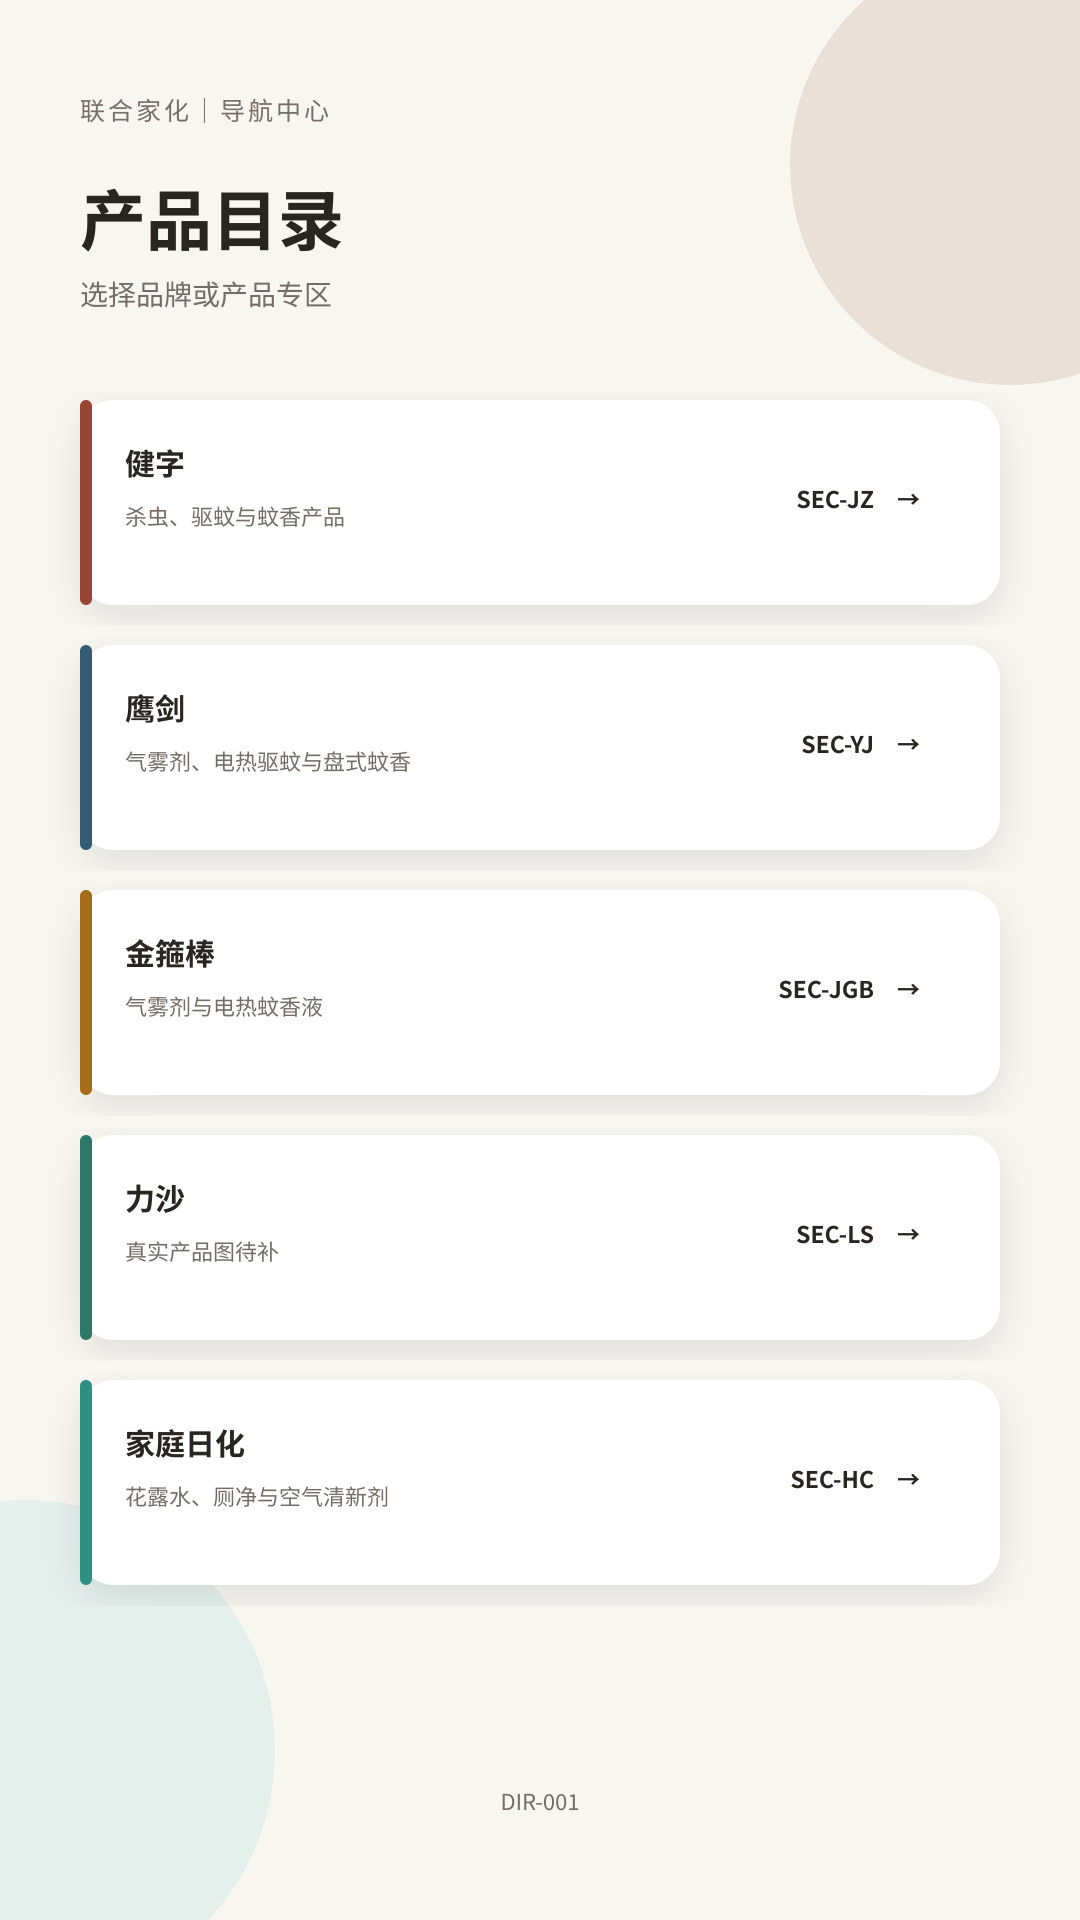
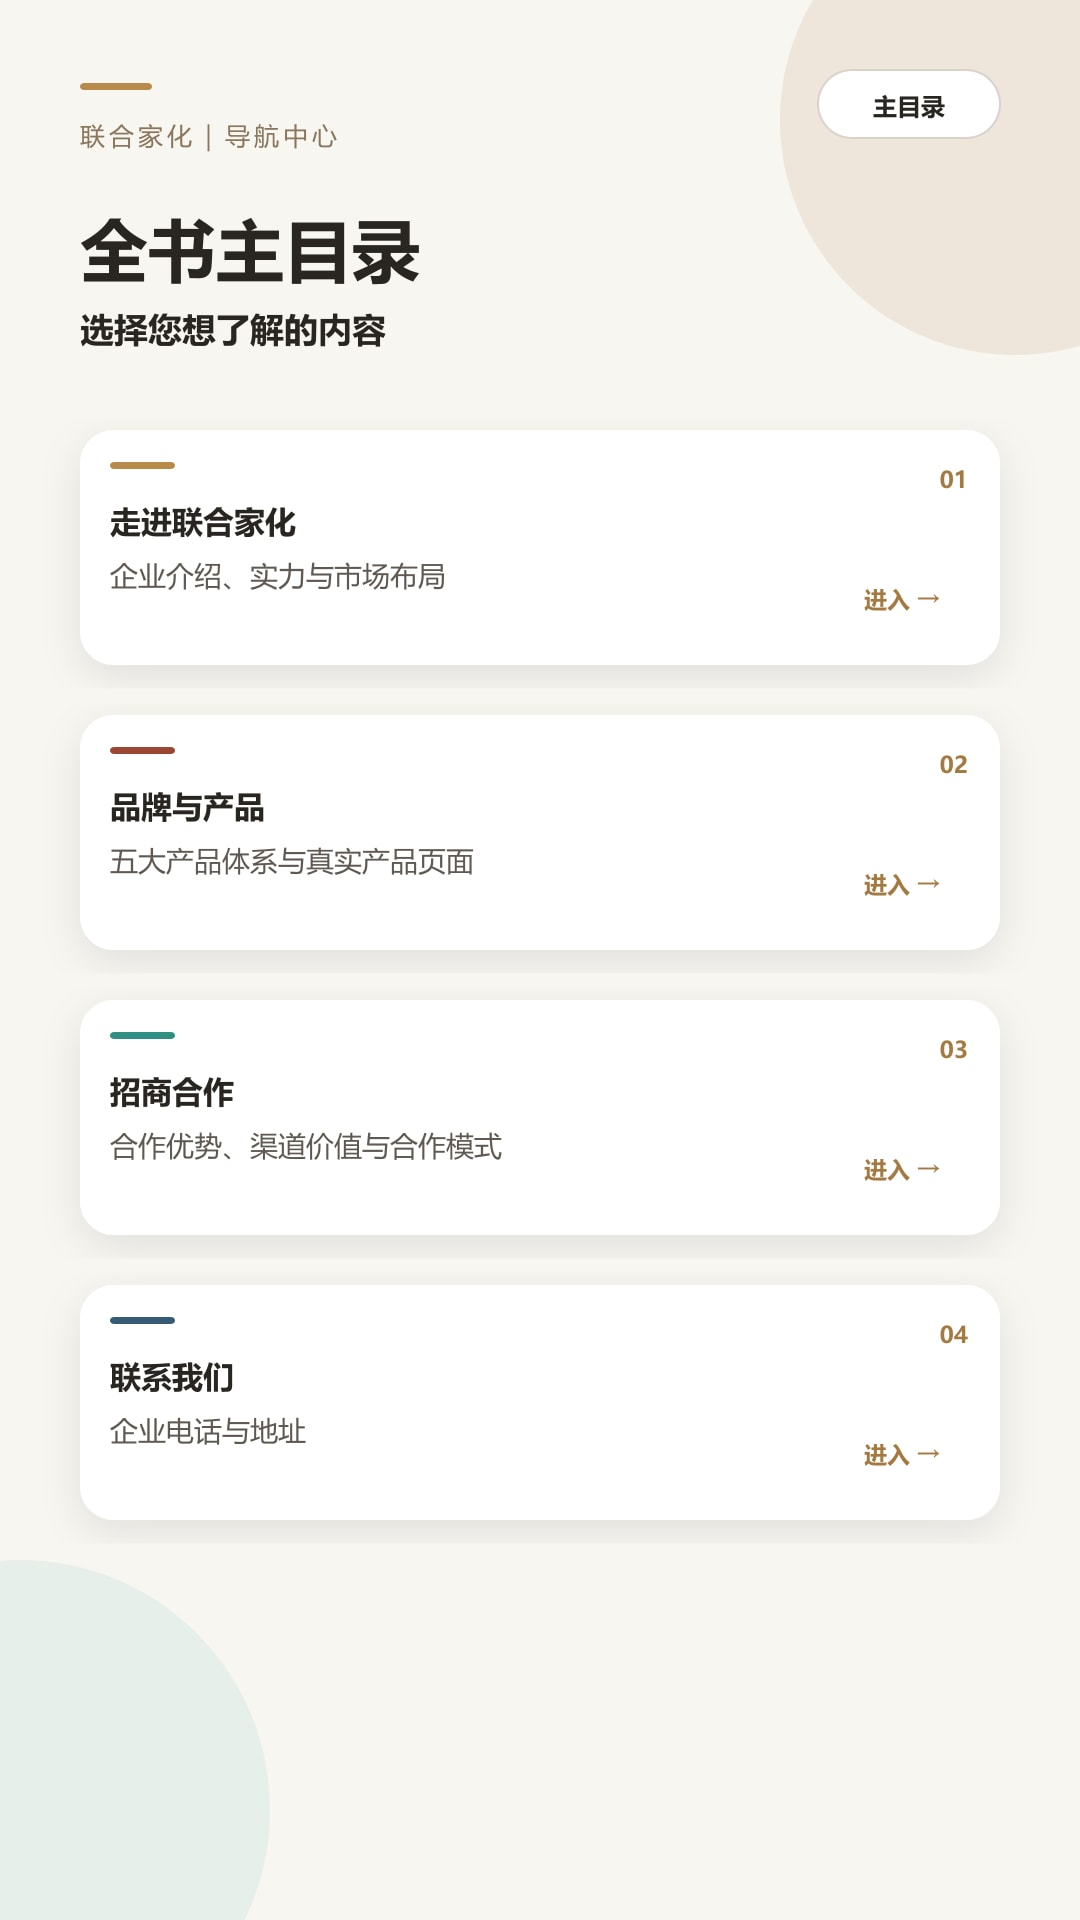
Complete enterprise and cooperation chapters

diff --git a/style.css b/style.css
@@ -1,1 +1,1 @@
-*{box-sizing:border-box}html,body{margin:0;height:100%;background:#e9e5df;color:#26231f;font-family:-apple-system,BlinkMacSystemFont,"Segoe UI","PingFang SC","Microsoft YaHei",sans-serif}button,input{font:inherit}.topbar{height:64px;padding:env(safe-area-inset-top) 12px 0;display:flex;align-items:center;gap:12px;background:#faf7f1;border-bottom:1px solid #ddd6cb;position:fixed;z-index:10;top:0;left:0;right:0}.heading{min-width:0;flex:1;text-align:center;display:flex;flex-direction:column}.heading strong{font-size:15px;white-space:nowrap;overflow:hidden;text-overflow:ellipsis}.heading span{font-size:11px;color:#777}.icon-btn,.bottomnav button,.drawer button{border:0;background:#fff;border-radius:10px;padding:10px 12px;color:#3b3732}.viewer{position:fixed;inset:64px 0 calc(62px + env(safe-area-inset-bottom));display:grid;place-items:center;overflow:hidden}.page{width:min(100%,calc((100dvh - 126px - env(safe-area-inset-bottom)) * .5625));aspect-ratio:9/16;margin:0;display:grid;place-items:center;position:relative}.page img{display:block;width:100%;height:100%;box-shadow:0 8px 30px #40382d26;opacity:0;transition:opacity .15s}.page img.ready{opacity:1}.hotspots{position:absolute;inset:0;z-index:3}.hotspot{position:absolute;border:0;background:transparent;border-radius:10px;cursor:pointer}.hotspot:focus-visible{outline:3px solid #1877d2;outline-offset:-3px}#loading{position:absolute;color:#777}.tap-zone{position:absolute;z-index:2;top:0;bottom:0;width:10%;border:0;background:transparent}.tap-zone.left{left:0}.tap-zone.right{right:0}.bottomnav{height:calc(62px + env(safe-area-inset-bottom));padding:8px 20px env(safe-area-inset-bottom);position:fixed;bottom:0;left:0;right:0;display:flex;align-items:center;justify-content:space-between;background:#faf7f1;border-top:1px solid #ddd6cb;z-index:10}.bottomnav button{min-width:88px}.bottomnav button:disabled{opacity:.35}.bottomnav span{font-size:13px;color:#666}.drawer{position:fixed;z-index:30;left:0;top:0;bottom:0;width:min(88vw,390px);background:#f7f3ec;transform:translateX(-102%);transition:transform .2s;box-shadow:10px 0 40px #0003;overflow:auto;padding-bottom:30px}.drawer[aria-hidden=false]{transform:translateX(0)}.drawer-head{position:sticky;top:0;background:#f7f3ecef;backdrop-filter:blur(8px);display:flex;align-items:center;justify-content:space-between;padding:18px;border-bottom:1px solid #ddd6cb}.search{display:block;padding:14px 18px 5px}.search span{font-size:12px;color:#777;display:block;margin-bottom:6px}.search input{width:100%;border:1px solid #d5cec3;border-radius:10px;padding:12px;background:#fff}.toc{padding:0 12px}.toc h2{font-size:12px;color:#8a6e51;margin:17px 7px 7px}.toc button{width:100%;display:flex;justify-content:space-between;text-align:left;margin:4px 0;background:transparent}.toc button.active{background:#e5ddd0}.toc small{color:#888}.shade{position:fixed;z-index:20;inset:0;background:#0007}@media(min-width:900px){.viewer{inset:64px 390px 62px 0}.drawer{transform:none;width:390px;left:auto;right:0;box-shadow:none;border-left:1px solid #d8d1c6}.drawer-head button{display:none}.shade{display:none}.topbar,.bottomnav{right:390px}.page{width:min(calc(100vw - 390px),calc((100dvh - 126px) * .5625))}}
+*{box-sizing:border-box}html,body{margin:0;height:100%;background:#e9e5df;color:#26231f;font-family:-apple-system,BlinkMacSystemFont,"Segoe UI","PingFang SC","Microsoft YaHei",sans-serif}button,input{font:inherit}.topbar{height:64px;padding:env(safe-area-inset-top) 12px 0;display:flex;align-items:center;gap:12px;background:#faf7f1;border-bottom:1px solid #ddd6cb;position:fixed;z-index:10;top:0;left:0;right:0}.heading{min-width:0;flex:1;text-align:center;display:flex;flex-direction:column}.heading strong{font-size:15px;white-space:nowrap;overflow:hidden;text-overflow:ellipsis}.heading span{font-size:11px;color:#777}.icon-btn,.bottomnav button,.drawer button{border:0;background:#fff;border-radius:10px;padding:10px 12px;color:#3b3732}.viewer{position:fixed;inset:64px 0 calc(62px + env(safe-area-inset-bottom));display:grid;place-items:center;overflow:hidden}.page{width:min(100%,calc((100dvh - 126px - env(safe-area-inset-bottom)) * .5625));aspect-ratio:9/16;margin:0;display:grid;place-items:center;position:relative}.page img{display:block;width:100%;height:100%;box-shadow:0 8px 30px #40382d26;opacity:0;transition:opacity .15s}.page img.ready{opacity:1}.hotspots{position:absolute;inset:0;z-index:3}.hotspot{position:absolute;border:0;background:transparent;border-radius:10px;cursor:pointer}.hotspot:focus-visible{outline:3px solid #1877d2;outline-offset:-3px}#loading{position:absolute;color:#777}.tap-zone{position:absolute;z-index:2;top:0;bottom:0;width:10%;border:0;background:transparent}.tap-zone.left{left:0}.tap-zone.right{right:0}.bottomnav{height:calc(62px + env(safe-area-inset-bottom));padding:8px 20px env(safe-area-inset-bottom);position:fixed;bottom:0;left:0;right:0;display:flex;align-items:center;justify-content:space-between;background:#faf7f1;border-top:1px solid #ddd6cb;z-index:10}.bottomnav button{min-width:88px}.bottomnav button:disabled{opacity:.35}.bottomnav span{font-size:13px;color:#666}.drawer{position:fixed;z-index:30;left:0;top:0;bottom:0;width:min(88vw,390px);background:#f7f3ec;transform:translateX(-102%);transition:transform .2s;box-shadow:10px 0 40px #0003;overflow:auto;padding-bottom:30px}.drawer[aria-hidden=false]{transform:translateX(0)}.drawer-head{position:sticky;top:0;background:#f7f3ecef;backdrop-filter:blur(8px);display:flex;align-items:center;justify-content:space-between;padding:18px;border-bottom:1px solid #ddd6cb}.search{display:block;padding:14px 18px 5px}.search span{font-size:12px;color:#777;display:block;margin-bottom:6px}.search input{width:100%;border:1px solid #d5cec3;border-radius:10px;padding:12px;background:#fff}.toc{padding:0 12px}.toc h2{font-size:12px;color:#8a6e51;margin:17px 7px 7px}.toc button{width:100%;display:flex;justify-content:space-between;text-align:left;margin:4px 0;background:transparent}.toc button.active{background:#e5ddd0}.toc small{color:#888}.shade{position:fixed;z-index:20;inset:0;background:#0007}@media(min-width:900px){.viewer{inset:64px 390px 62px 0}.drawer{transform:none;width:390px;left:auto;right:0;box-shadow:none;border-left:1px solid #d8d1c6}.drawer-head button{display:none}.shade{display:none}.topbar,.bottomnav{right:390px}.page{width:min(calc(100vw - 390px),calc((100dvh - 126px) * .5625))}}button{touch-action:manipulation}.icon-btn,.drawer button{min-height:44px}.hotspot{touch-action:manipulation}

diff --git a/index.html b/index.html
@@ -24,15 +24,18 @@
     <button id="prevBtn">上一页</button><span id="counter">1 / 23</span><button id="nextBtn">下一页</button>
   </nav>
   <aside id="drawer" class="drawer" aria-hidden="true">
-    <div class="drawer-head"><strong>产品目录</strong><button id="closeBtn" aria-label="关闭目录">关闭</button></div>
-    <label class="search"><span>搜索</span><input id="search" type="search" placeholder="输入品牌或产品系列"></label>
+    <div class="drawer-head"><strong>全书目录</strong><button id="closeBtn" aria-label="关闭目录">关闭</button></div>
+    <label class="search"><span>搜索</span><input id="search" type="search" placeholder="输入企业、品牌、产品或合作内容"></label>
     <div id="toc" class="toc"></div>
   </aside>
   <div id="shade" class="shade" hidden></div>
   <script>
 const pages = [
   {id:"COVER",title:"封面",section:"全书",src:"pages/COVER.jpg"},
-  {id:"DIR-001",title:"产品主目录",section:"全书",src:"pages/DIR-001.jpg"},
+  {id:"ENT-INTRO",title:"企业介绍",section:"企业篇",src:"pages/ENT-INTRO.jpg"},
+  {id:"ENT-STRENGTH",title:"企业实力",section:"企业篇",src:"pages/ENT-STRENGTH.jpg"},
+  {id:"ENT-MARKET",title:"市场布局",section:"企业篇",src:"pages/ENT-MARKET.jpg"},
+  {id:"DIR-001",title:"全书主目录",section:"全书",src:"pages/DIR-001.jpg"},
   {id:"SEC-JZ",title:"健字产品专区",section:"健字",src:"pages/SEC-JZ.jpg"},
   {id:"JZ-P001",title:"健字气雾剂系列",section:"健字",src:"pages/JZ-P001.jpg"},
   {id:"JZ-P002",title:"免拆桶装蚊香",section:"健字",src:"pages/JZ-P002.jpg"},
@@ -53,7 +56,11 @@ const pages = [
   {id:"SEC-HC",title:"家庭日化产品专区",section:"家庭日化",src:"pages/SEC-HC.jpg"},
   {id:"HC-P001",title:"花露水系列",section:"家庭日化",src:"pages/HC-P001.jpg"},
   {id:"HC-P002",title:"健字厕净（柠檬香）",section:"家庭日化",src:"pages/HC-P002.jpg"},
-  {id:"HC-P003",title:"空气清新剂系列",section:"家庭日化",src:"pages/HC-P003.jpg"}
+  {id:"HC-P003",title:"空气清新剂系列",section:"家庭日化",src:"pages/HC-P003.jpg"},
+  {id:"COOP-001",title:"选择联合家化",section:"招商合作",src:"pages/COOP-001.jpg"},
+  {id:"COOP-002",title:"渠道合作价值",section:"招商合作",src:"pages/COOP-002.jpg"},
+  {id:"COOP-003",title:"合作模式",section:"招商合作",src:"pages/COOP-003.jpg"},
+  {id:"CONTACT",title:"联系方式",section:"联系我们",src:"pages/CONTACT.jpg"}
 ];
 const byId = Object.fromEntries(pages.map((p,i)=>[p.id,i]));
 let current = Math.max(0, byId[location.hash.slice(1)] ?? 0);
@@ -65,15 +72,16 @@ const shade = document.querySelector('#shade');
 const toc = document.querySelector('#toc');
 function preload(i) { if (pages[i]) { const x=new Image(); x.src=pages[i].src; } }
 const links = {
-  'COVER': [[0,0,100,100,'DIR-001','进入产品目录']],
+  'COVER': [[0,0,100,100,'DIR-001','进入全书主目录']],
   'DIR-001': [
-    [7.4,20.8,85.2,10.7,'SEC-JZ','进入健字专区'],[7.4,33.6,85.2,10.7,'SEC-YJ','进入鹰剑专区'],
-    [7.4,46.4,85.2,10.7,'SEC-JGB','进入金箍棒专区'],[7.4,59.2,85.2,10.7,'SEC-LS','进入力沙专区'],
-    [7.4,72.0,85.2,10.7,'SEC-HC','进入家庭日化专区']],
+    [7.4,22.4,85.2,12.3,'ENT-INTRO','进入企业篇'],[7.4,37.2,85.2,12.3,'SEC-JZ','进入品牌与产品'],
+    [7.4,52.1,85.2,12.3,'COOP-001','进入招商合作'],[7.4,66.9,85.2,12.3,'CONTACT','进入联系方式']],
+  'ENT-MARKET': [[7.4,77.0,85.2,8.5,'SEC-JZ','查看品牌与产品']],
   'SEC-JZ': ['JZ-P001','JZ-P002','JZ-P003','JZ-P004','JZ-P005','JZ-P006','JZ-P007'],
   'SEC-YJ': ['YJ-P001','YJ-P002','YJ-P003','YJ-P004'],
   'SEC-JGB': ['JGB-P001','JGB-P002'],
-  'SEC-HC': ['HC-P001','HC-P002','HC-P003']
+  'SEC-HC': ['HC-P001','HC-P002','HC-P003'],
+  'CONTACT': [[7.4,87.5,85.2,6.5,'DIR-001','返回全书主目录']]
 };
 function sectionLinks(ids) { return ids.map((id,n)=>[7.4+(n%2)*44.3,21.1+Math.floor(n/2)*14.3,40.9,12.2,id,'进入'+pages[byId[id]].title]); }
 function renderHotspots(p) {

diff --git a/sw.js b/sw.js
@@ -1,1 +1,1 @@
-const C='topic6-v1-rc1';const CORE=['./','./index.html','./style.css','./manifest.webmanifest','./icon-192.png'];self.addEventListener('install',e=>e.waitUntil(caches.open(C).then(c=>c.addAll(CORE))));self.addEventListener('fetch',e=>e.respondWith(caches.match(e.request).then(r=>r||fetch(e.request).then(x=>{const y=x.clone();caches.open(C).then(c=>c.put(e.request,y));return x;}))));
+const C='topic6-v1-complete';const CORE=['./','./index.html','./style.css','./manifest.webmanifest','./icon-192.png'];self.addEventListener('install',e=>e.waitUntil(caches.open(C).then(c=>c.addAll(CORE)).then(()=>self.skipWaiting())));self.addEventListener('activate',e=>e.waitUntil(caches.keys().then(keys=>Promise.all(keys.filter(k=>k!==C).map(k=>caches.delete(k)))).then(()=>self.clients.claim())));self.addEventListener('fetch',e=>e.respondWith(caches.match(e.request).then(r=>r||fetch(e.request).then(x=>{const y=x.clone();caches.open(C).then(c=>c.put(e.request,y));return x;}))));

diff --git a/404.html b/404.html
@@ -1,1 +1,1 @@
-<!doctype html><meta charset="utf-8"><meta http-equiv="refresh" content="0;url=./index.html#DIR-001"><title>返回产品目录</title>
+<!doctype html><html lang="zh-CN"><head><meta charset="utf-8"><meta name="viewport" content="width=device-width,initial-scale=1"><title>联合家化产品电子书</title><script>location.replace('./index.html'+location.hash)</script></head><body><a href="./index.html">进入联合家化产品电子书</a></body></html>
